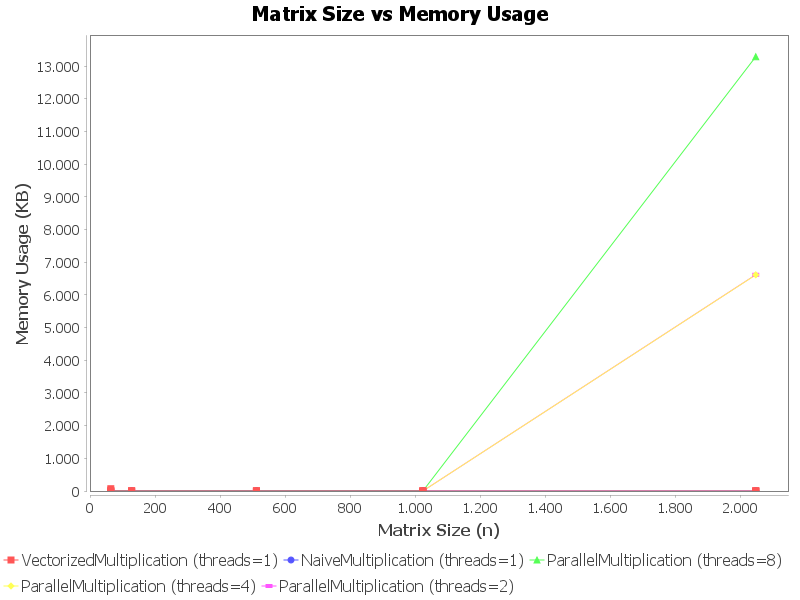
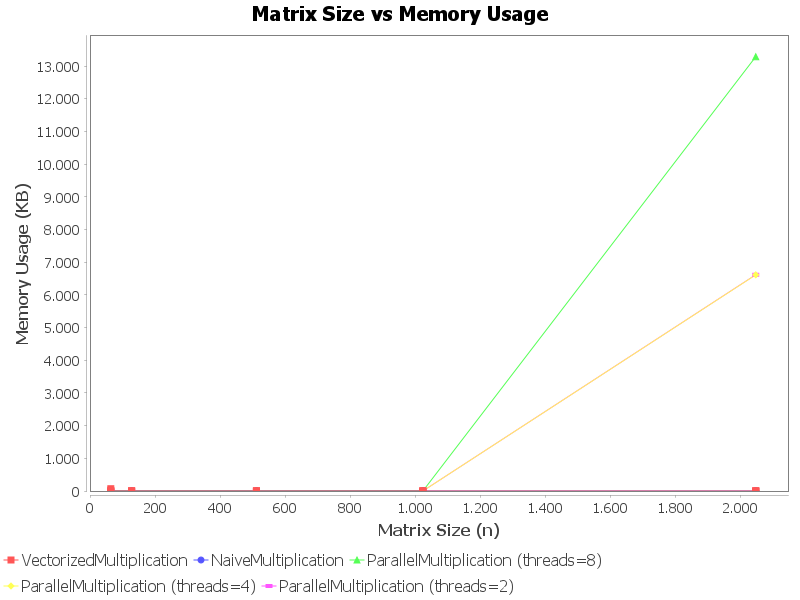
some graphs corrections

Changed region(s): [[0.25, 0.9, 0.9688, 0.96]]

diff --git a/task3/code/matrixMultiplication3/src/test/java/org/ulpgc/TimeDataPlotter.java b/task3/code/matrixMultiplication3/src/test/java/org/ulpgc/TimeDataPlotter.java
@@ -54,7 +54,7 @@ public class TimeDataPlotter {
             String benchmarkName = entry.getKey();
             for (Map.Entry<Double, List<Pair<Integer, Double>>> threadEntry : entry.getValue().entrySet()) {
                 double numThreads = threadEntry.getKey();
-                String seriesName = benchmarkName + " (threads=" + (int) numThreads + ")";
+                String seriesName = benchmarkName + (benchmarkName.equals("parallelMatrixMultiplication") ? " (threads=" + (int) numThreads + ")" : ""  );
                 XYSeries series = new XYSeries(seriesName);
 
                 for (Pair<Integer, Double> dataPoint : threadEntry.getValue()) {

diff --git a/task3/code/matrixMultiplication3/src/test/java/org/ulpgc/MemoryDataPlotter.java b/task3/code/matrixMultiplication3/src/test/java/org/ulpgc/MemoryDataPlotter.java
@@ -54,7 +54,7 @@ public class MemoryDataPlotter {
             String benchmarkName = entry.getKey();
             for (Map.Entry<Double, List<Pair<Integer, Double>>> threadEntry : entry.getValue().entrySet()) {
                 double numThreads = threadEntry.getKey();
-                String seriesName = benchmarkName + " (threads=" + (int) numThreads + ")";
+                String seriesName = benchmarkName + (benchmarkName.equals("ParallelMultiplication") ? " (threads=" + (int) numThreads + ")" : ""  );
                 XYSeries series = new XYSeries(seriesName);
 
                 for (Pair<Integer, Double> dataPoint : threadEntry.getValue()) {
